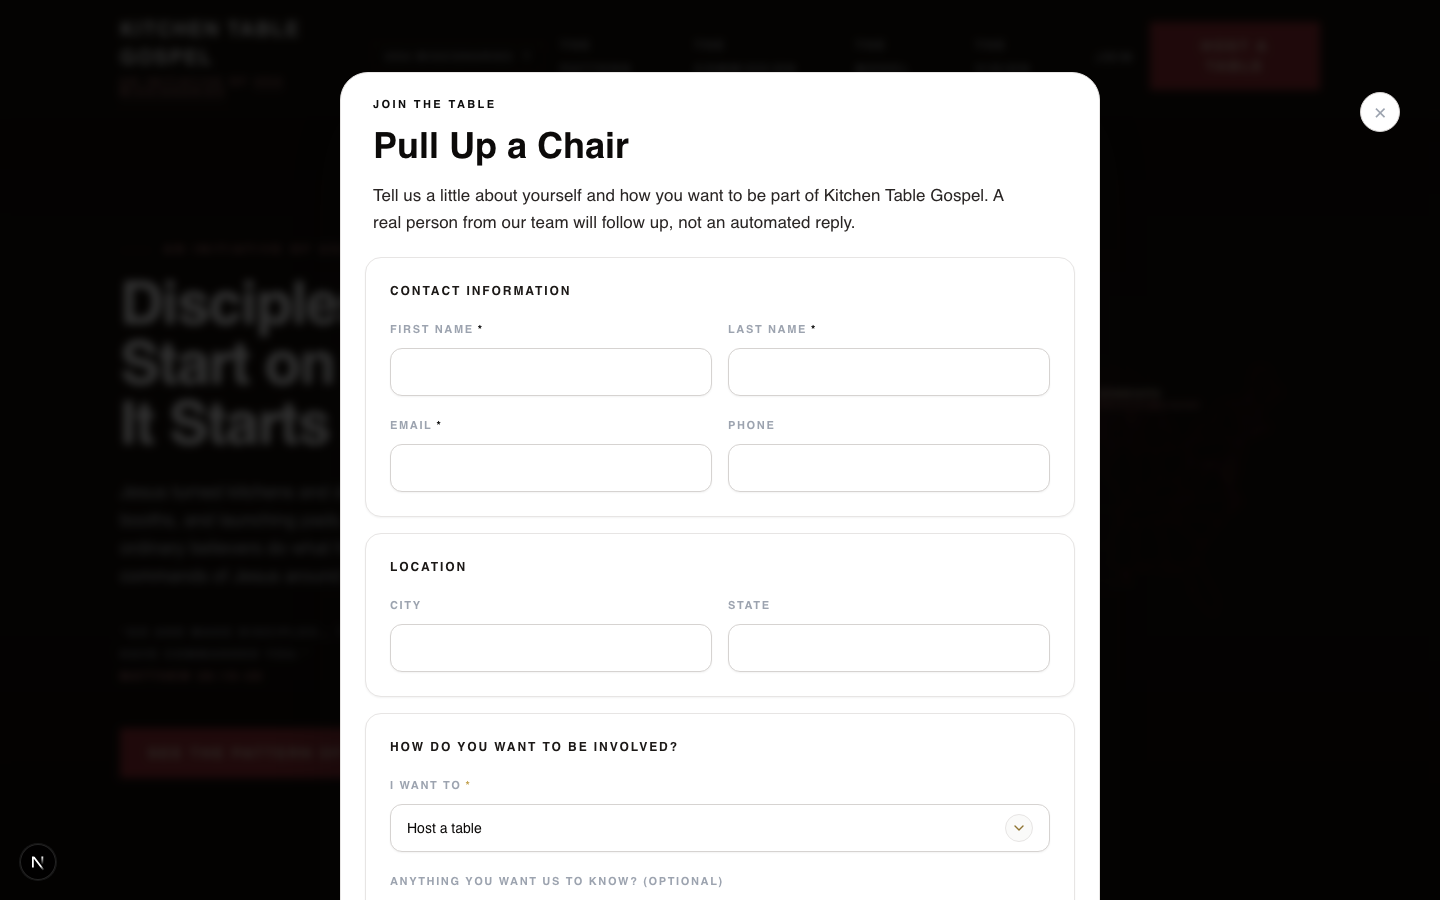
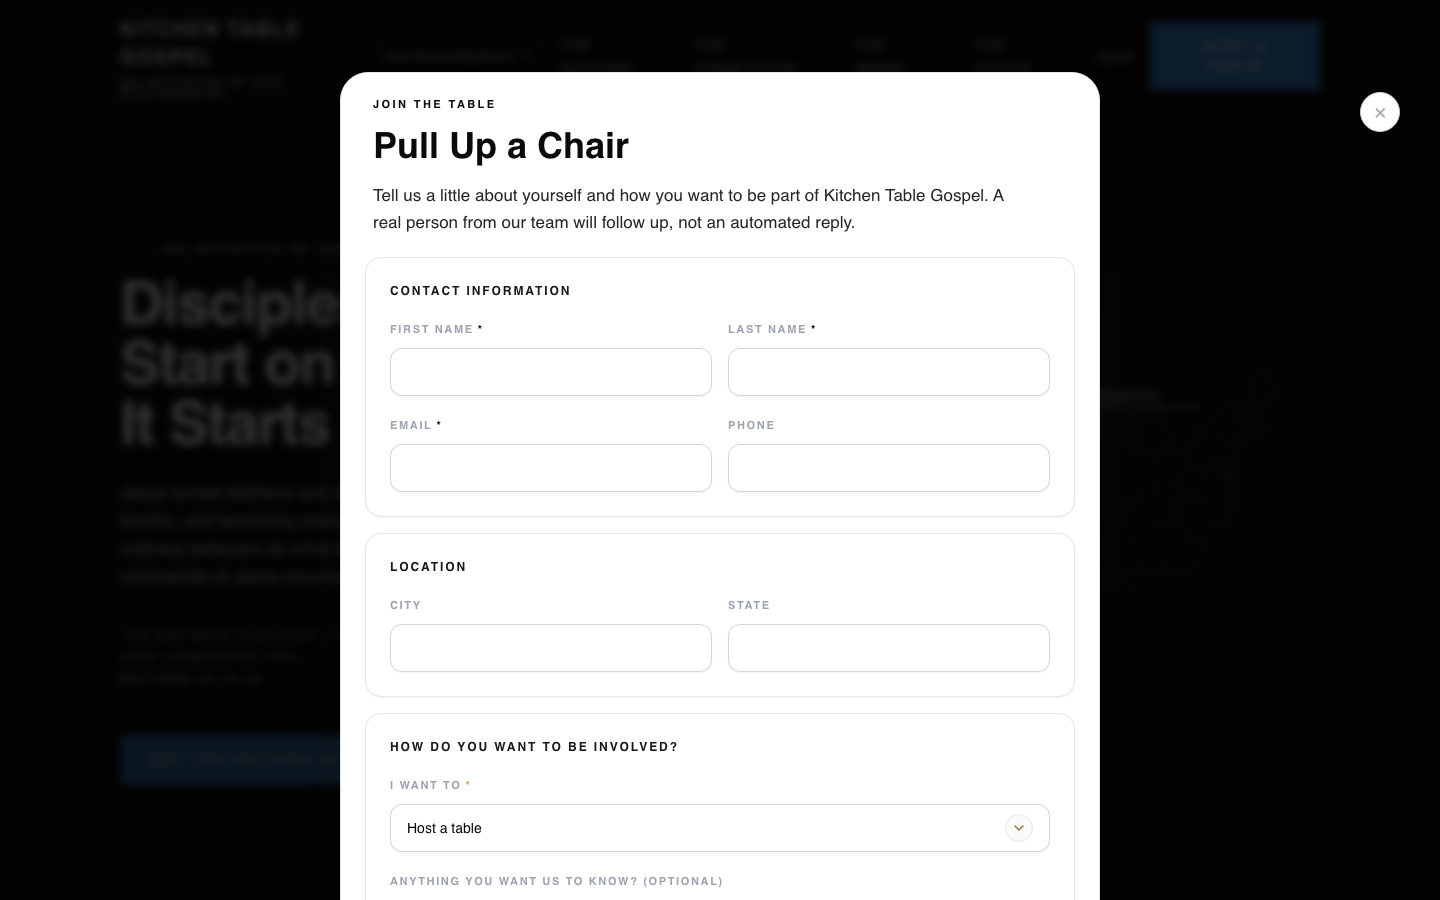
USA-71 apply DOS blue accent palette per founder decision
Replaces the wine red accent (#9A2F35 family) with the founder-approved
DOS blue (#378ADD) across buttons, links, map treatment, form hover
states, and highlights. Fixes a remaining em dash in the KTG meta
description in domain-sites.ts.

Changed region(s): [[0.7812, 0.0, 0.9375, 0.1244], [0.0938, 0.84, 0.2188, 0.8711]]

diff --git a/app/domain-sites/kitchen-table-gospel/KitchenTableGospelPage.tsx b/app/domain-sites/kitchen-table-gospel/KitchenTableGospelPage.tsx
@@ -44,18 +44,18 @@ import { getString, submitPublicForm } from "@/components/forms/submitPublicForm
 const font = { oswald: "'Oswald', sans-serif", rajdhani: "'Rajdhani', sans-serif" };
 
 // Kitchen Table Gospel keeps the USAM brand family (Oswald / Rajdhani / Inter, dark
-// canvas, uppercase tactical labels) but trades USAM's gold for a warm wine red: the
-// color of the cup shared at the table, distinct from USAM gold and DOS blue, still
-// warm and trustworthy within the same family.
+// canvas, uppercase tactical labels) and uses the founder-approved DOS blue as its
+// accent. Distinctness from DOS comes from the warm cream/brown surfaces, table
+// symbolism, and relational copy, not from a second bright brand color.
 const ktg = {
   bg: "#160F0A",
   bgAlt: "#100A06",
   panel: "#1E140D",
   panelBorder: "rgba(230,196,180,0.14)",
-  accent: "#9A2F35",
-  accentSoft: "#D98B8C",
-  accentDim: "rgba(154,47,53,0.5)",
-  accentDeep: "#6B1F24",
+  accent: "#378ADD",
+  accentSoft: "#9CC7EF",
+  accentDim: "rgba(55,138,221,0.5)",
+  accentDeep: "#255F97",
   cream: "#F3E4CC",
 };
 
@@ -139,7 +139,7 @@ function ctaVisuals(variant: "primary" | "secondary") {
 function ctaHoverHandlers(variant: "primary" | "secondary") {
   return {
     onMouseEnter: (e: React.MouseEvent<HTMLElement>) => {
-      if (variant === "secondary") e.currentTarget.style.background = "rgba(154,47,53,0.12)";
+      if (variant === "secondary") e.currentTarget.style.background = "rgba(55,138,221,0.12)";
     },
     onMouseLeave: (e: React.MouseEvent<HTMLElement>) => {
       if (variant === "secondary") e.currentTarget.style.background = "transparent";
@@ -297,7 +297,7 @@ function JoinTheTableModal({
           <PublicFormShell size="standard">
             <button
               aria-label="Close join the table form"
-              className="absolute right-5 top-5 z-10 flex h-10 w-10 items-center justify-center rounded-full border border-stone-300 bg-white text-xl leading-none text-stone-700 shadow-sm transition-colors hover:border-[#9A2F35] hover:text-stone-950"
+              className="absolute right-5 top-5 z-10 flex h-10 w-10 items-center justify-center rounded-full border border-stone-300 bg-white text-xl leading-none text-stone-700 shadow-sm transition-colors hover:border-[#378ADD] hover:text-stone-950"
               onClick={() => setIsOpen(false)}
               type="button"
             >
@@ -715,7 +715,7 @@ export function KitchenTableGospelPage() {
 
       {/* HERO */}
       <section className="relative flex min-h-screen items-center overflow-hidden pt-28">
-        <div className="pointer-events-none absolute inset-0" style={{ background: `radial-gradient(ellipse at 30% 30%, rgba(154,47,53,0.1) 0%, transparent 55%)` }} />
+        <div className="pointer-events-none absolute inset-0" style={{ background: `radial-gradient(ellipse at 30% 30%, rgba(55,138,221,0.1) 0%, transparent 55%)` }} />
         <div className="pointer-events-none absolute inset-0" style={{ background: `linear-gradient(180deg, ${ktg.bgAlt} 0%, ${ktg.bg} 45%, ${ktg.bgAlt} 100%)` }} />
 
         <div className="relative z-10 mx-auto grid w-full max-w-7xl gap-16 px-6 py-16 md:grid-cols-2 md:items-center md:px-10">

diff --git a/src/lib/domain-sites.ts b/src/lib/domain-sites.ts
@@ -30,7 +30,7 @@ export const domainSites = {
   "kitchen-table-gospel": {
     analyticsBrand: "kitchen_table_gospel",
     canonicalOrigin: "https://kitchentablegospel.org",
-    description: "Practical, table-shaped discipleship for ordinary believers — learning, obeying, and teaching the commands of Jesus in real relationships.",
+    description: "Practical, table-shaped discipleship for ordinary believers: learning, obeying, and teaching the commands of Jesus in real relationships.",
     faviconPath: "/favicon.ico",
     key: "kitchen-table-gospel",
     rootPath: `${domainSiteRoutePrefix}/kitchen-table-gospel`,
